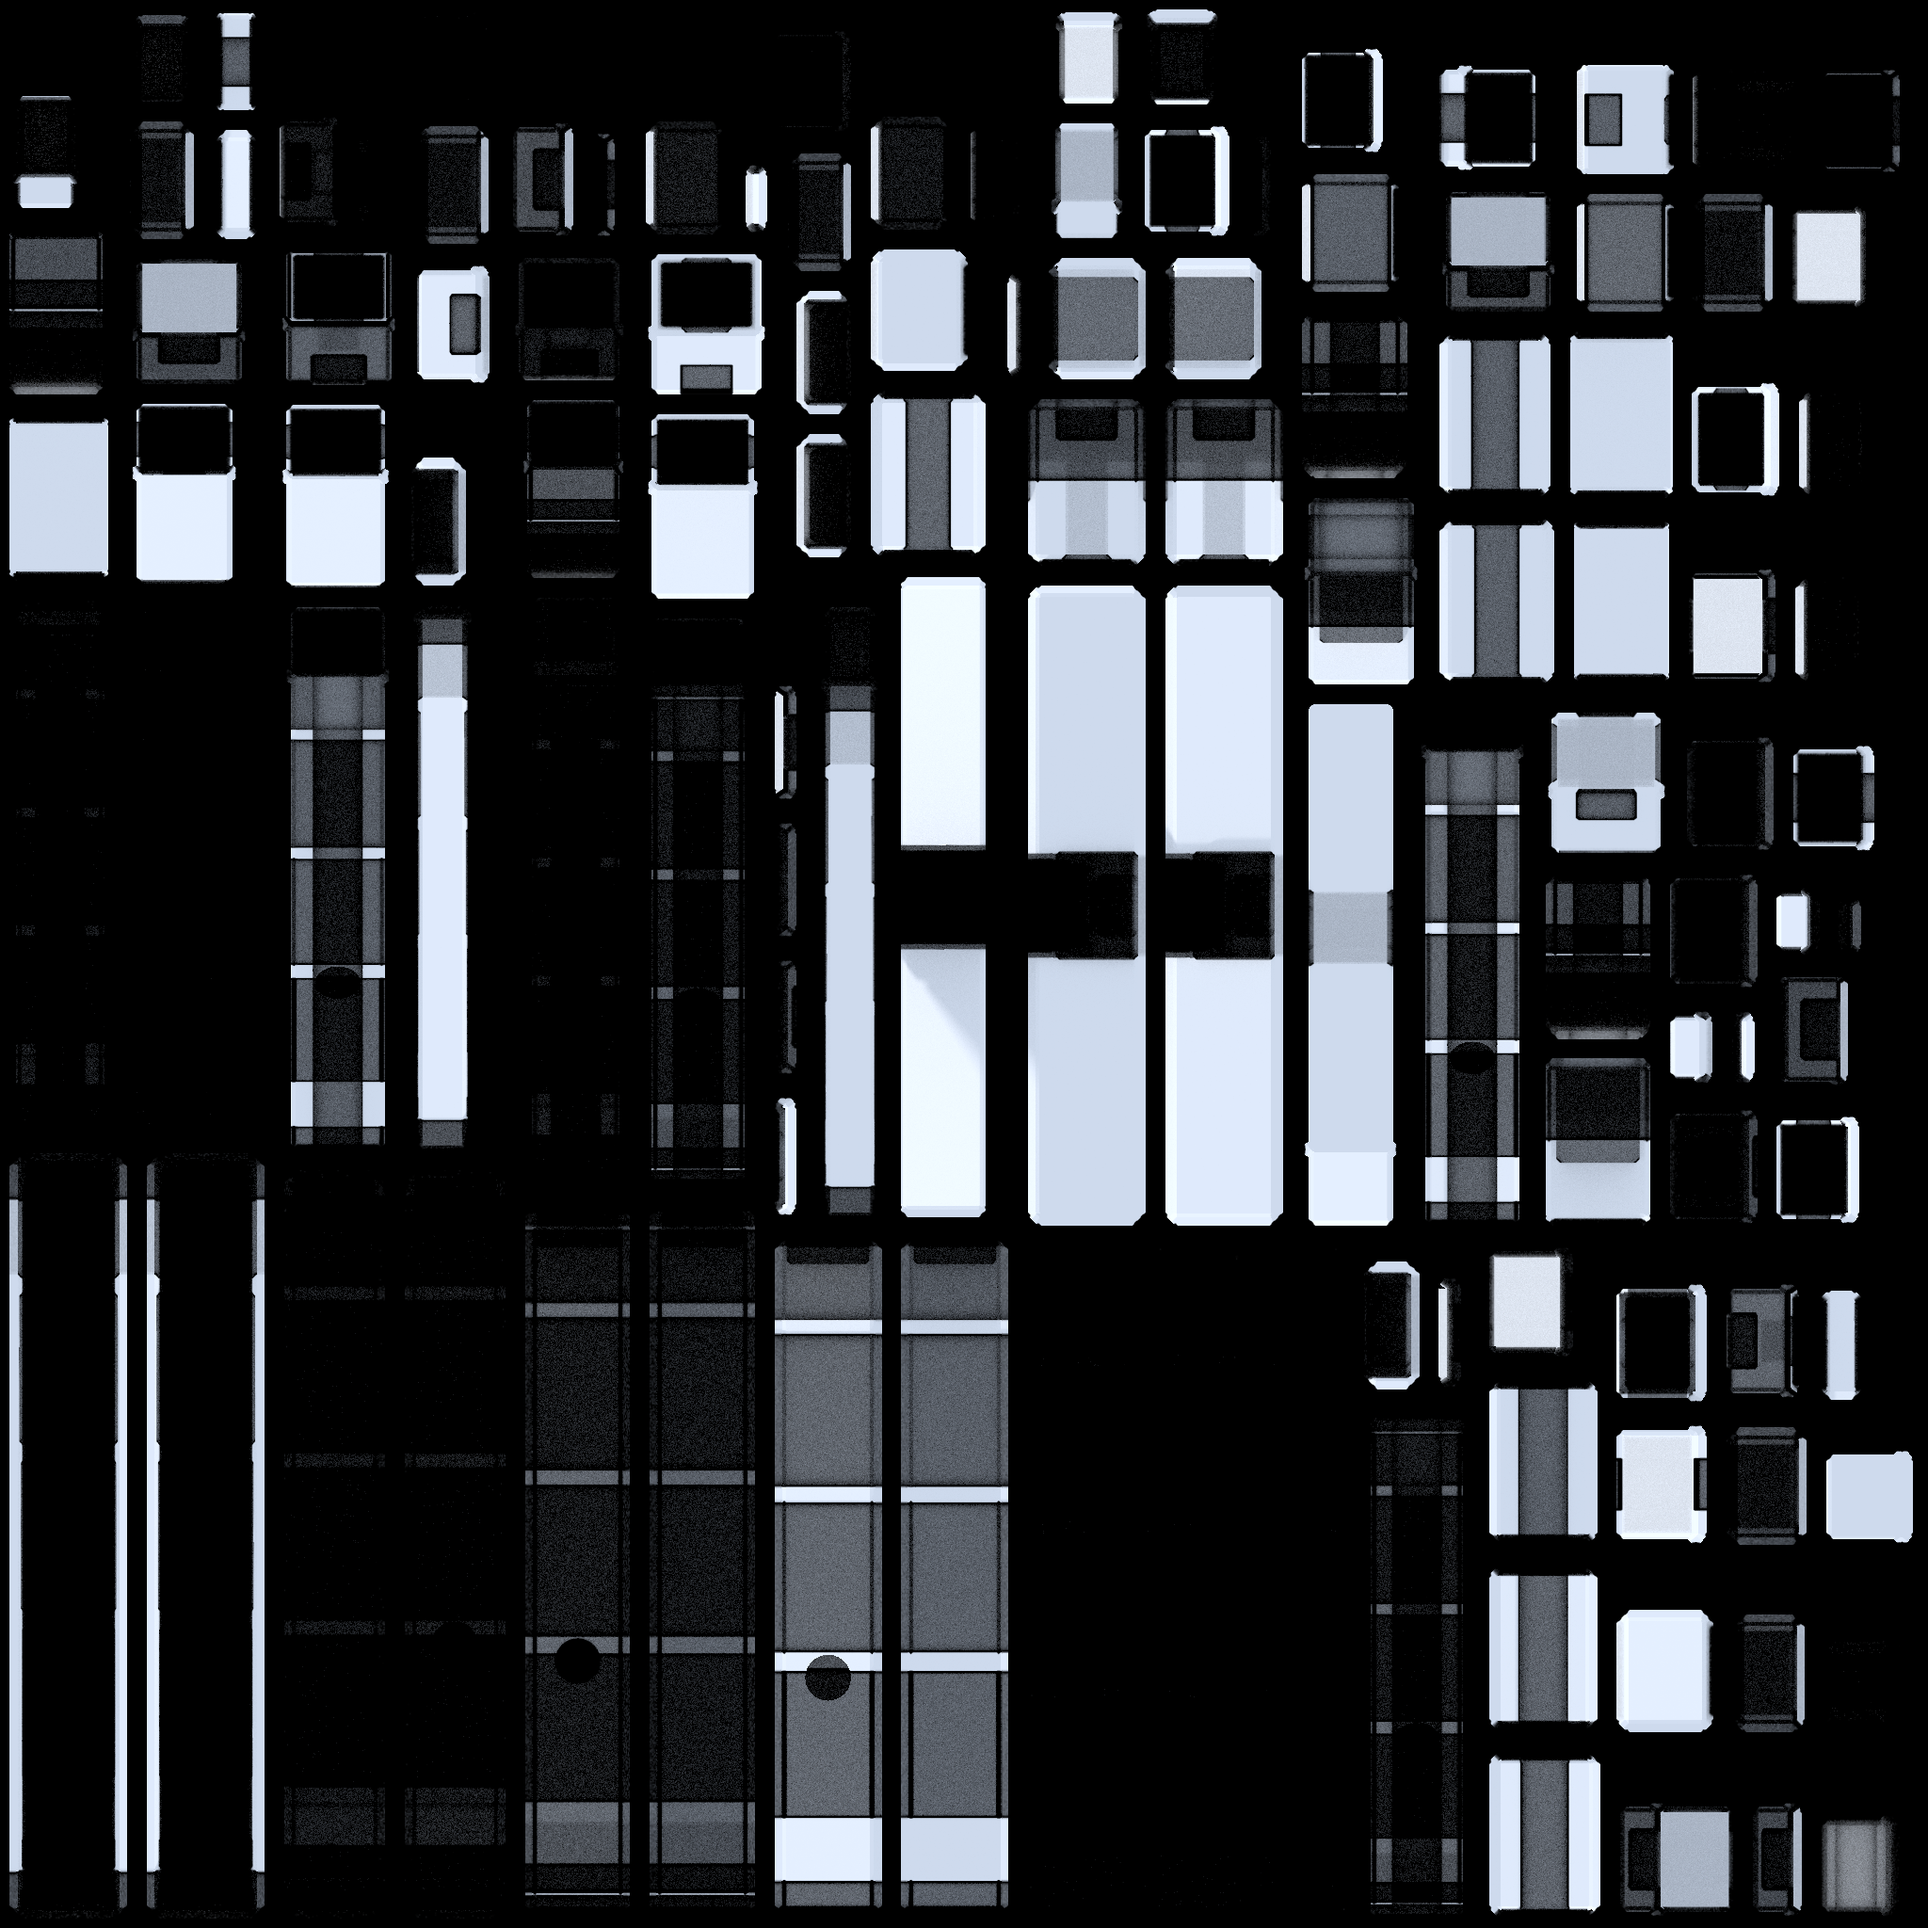
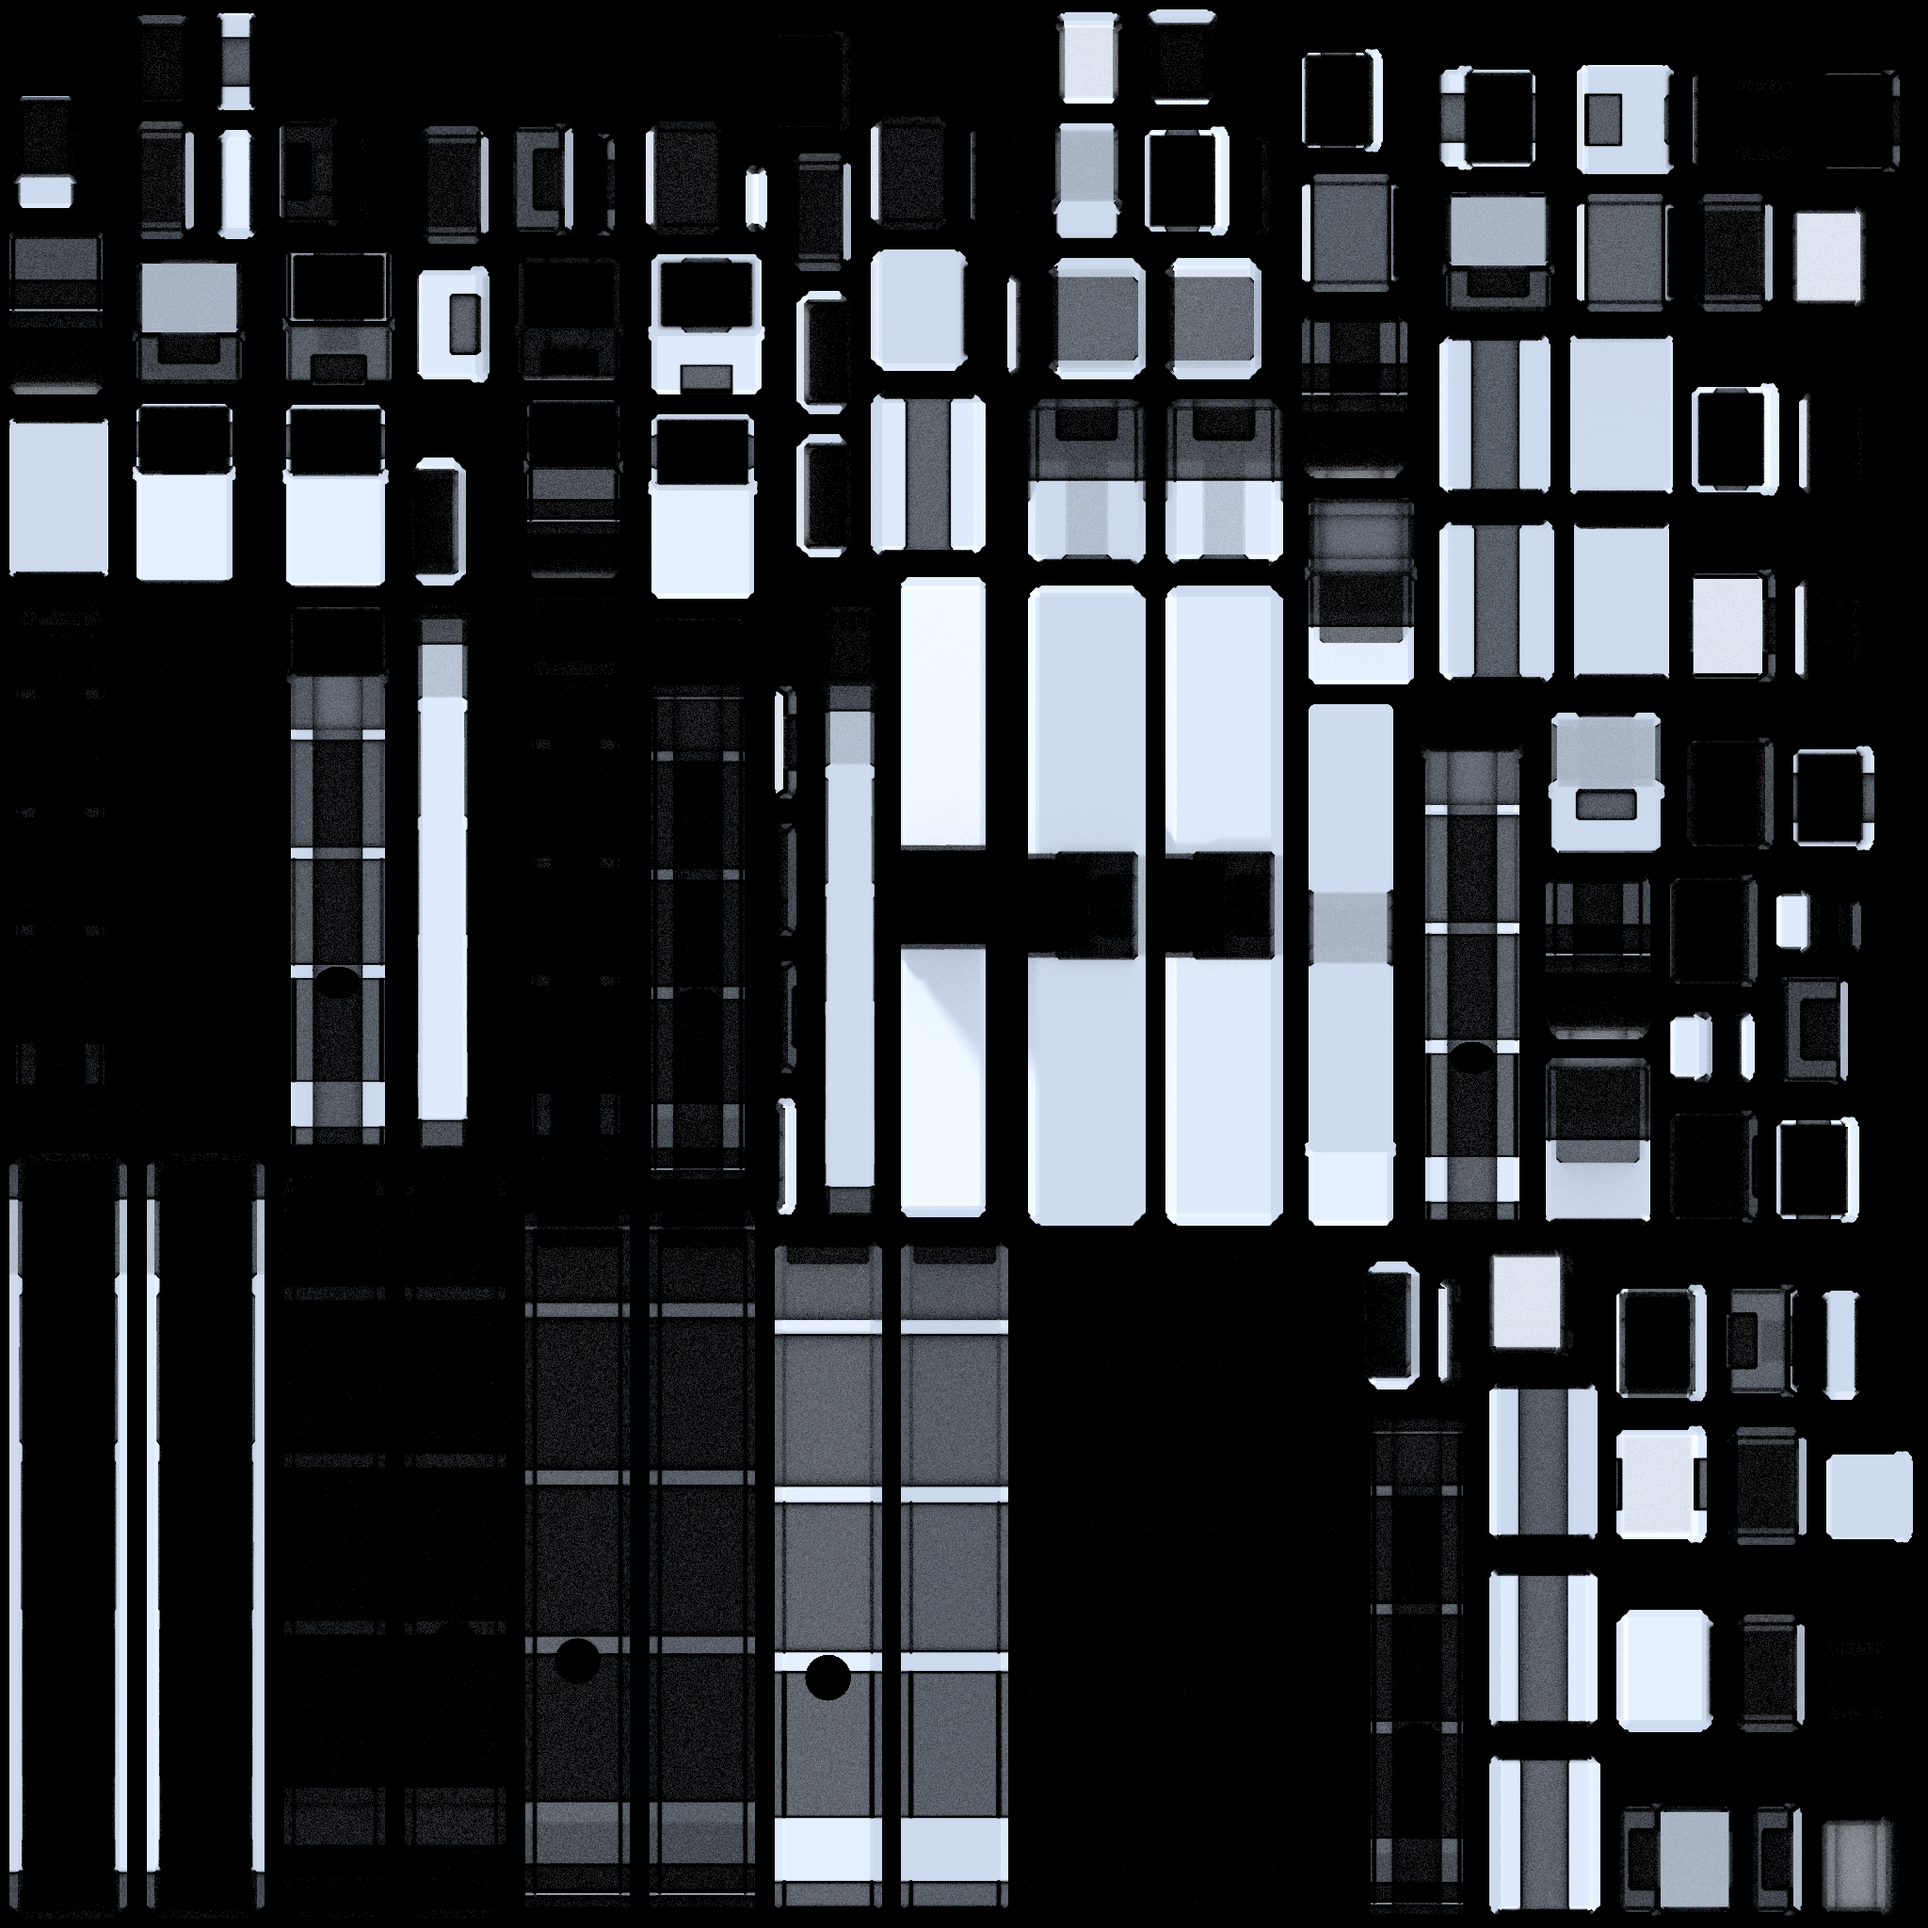
Polish: muted live plates that read through the seam, the hero's warm rim, deeper carvings
Live floor plates were hot neon pink, the brightest thing on screen. The
live face is LETHAL_LIVE darkened 30 % on the baked slate, the SEAM of a
live plate is LETHAL_SEAM (bright, pulsing on the beat), the baked top is
capped at 0.88 so the floor never blooms, and the glow threshold went
0.82 -> 0.9 with intensity 0.45 -> 0.35: 'live' reads through the rim and
the pulse, not brightness. The hazards keep the deeper magenta from
stage B, their rim carrying 'live'.

The hero's warm rim (brief 6 section 5): HERO_RIM #ffb9a0, strength 0.5,
a tight fresnel (power 4) on the side away from pr_light_dir, in the
creature's shader (the legs share it). The only warm light in the world.

The pillar carvings are cut three times deeper in the bake (panels 0.09,
joints 0.03, circles and symbols to match), grime 0.5 -> 0.7 reaching
0.8, the bake cage to match; NEAR_PILLAR #10151b -> #1b232c so the
carvings show up close. Re-baked (tools/blender/pillars.py).

diff --git a/tools/blender/pillars.py b/tools/blender/pillars.py
@@ -125,11 +125,11 @@ def v_plain(h):
     def deco(ob):
         # two recessed panels on the +x and -z faces (the lit faces), a joint every quarter
         for cz in (0.35 * h, 0.7 * h):
-            cut(ob, cutter_box("p", 0.44, 0.0, cz, 0.03, 0.26, 0.10 * h))
-            cut(ob, cutter_box("p", 0.0, 0.44, cz, 0.26, 0.03, 0.10 * h))
-            cut(ob, cutter_box("p", -0.44, 0.0, cz, 0.03, 0.26, 0.10 * h))
+            cut(ob, cutter_box("p", 0.44, 0.0, cz, 0.09, 0.26, 0.10 * h))
+            cut(ob, cutter_box("p", 0.0, 0.44, cz, 0.26, 0.09, 0.10 * h))
+            cut(ob, cutter_box("p", -0.44, 0.0, cz, 0.09, 0.26, 0.10 * h))
         for cz in (0.3 * h, 0.55 * h, 0.8 * h):
-            cut(ob, cutter_box("j", 0.0, 0.0, cz, 0.47, 0.47, 0.012))
+            cut(ob, cutter_box("j", 0.0, 0.0, cz, 0.47, 0.47, 0.03))
     return low, deco
 
 
@@ -138,9 +138,9 @@ def v_circle(h):
     def deco(ob):
         # the circle motif: a recessed disc with a ring, on the -z face and the +x face
         for (cx, cy, axis) in ((0.0, 0.45, 'Y'), (0.45, 0.0, 'X'), (-0.45, 0.0, 'X')):
-            cut(ob, cutter_cyl("c", cx, cy, 0.62 * h, 0.22, 0.06, axis))
+            cut(ob, cutter_cyl("c", cx, cy, 0.62 * h, 0.22, 0.14, axis))
             ring_in = cutter_cyl("r", cx, cy, 0.62 * h, 0.14, 0.2, axis)
-            cut(ob, cutter_cyl("r", cx, cy, 0.62 * h, 0.16, 0.05, axis))
+            cut(ob, cutter_cyl("r", cx, cy, 0.62 * h, 0.16, 0.12, axis))
             bpy.data.objects.remove(ring_in, do_unlink=True)
         for cz in (0.25 * h, 0.4 * h):
             cut(ob, cutter_box("j", 0.0, 0.0, cz, 0.47, 0.47, 0.012))
@@ -157,12 +157,12 @@ def v_stacked(h):
     def deco(ob):
         # deep joints between the blocks, a symbol on the third
         for i in range(1, n):
-            cut(ob, cutter_box("j", 0.0, 0.0, i * h / n, 0.55, 0.55, 0.014 * h))
+            cut(ob, cutter_box("j", 0.0, 0.0, i * h / n, 0.55, 0.55, 0.02 * h))
         cz = 2.5 * h / n
         for cy in (0.47, -0.47):
-            cut(ob, cutter_box("s", 0.0, cy, cz, 0.16, 0.03, 0.02))
-            cut(ob, cutter_box("s", 0.0, cy, cz + 0.06 * h, 0.16, 0.03, 0.02))
-            cut(ob, cutter_box("s", 0.0, cy, cz - 0.06 * h, 0.16, 0.03, 0.02))
+            cut(ob, cutter_box("s", 0.0, cy, cz, 0.16, 0.07, 0.03))
+            cut(ob, cutter_box("s", 0.0, cy, cz + 0.06 * h, 0.16, 0.07, 0.03))
+            cut(ob, cutter_box("s", 0.0, cy, cz - 0.06 * h, 0.16, 0.07, 0.03))
     return low, deco
 
 
@@ -174,12 +174,12 @@ def v_symbols(h):
         for k in range(4):
             cz = z + k * 0.17 * h
             if k % 2 == 0:
-                cut(ob, cutter_box("s", 0.0, 0.42, cz, 0.2, 0.03, 0.025))
-                cut(ob, cutter_box("s", 0.12, 0.42, cz + 0.05 * h, 0.05, 0.03, 0.05))
+                cut(ob, cutter_box("s", 0.0, 0.42, cz, 0.2, 0.08, 0.035))
+                cut(ob, cutter_box("s", 0.12, 0.42, cz + 0.05 * h, 0.05, 0.08, 0.06))
             else:
-                cut(ob, cutter_cyl("s", 0.0, 0.42, cz, 0.12, 0.06, 'Y'))
-        cut(ob, cutter_box("p", 0.42, 0.0, 0.5 * h, 0.03, 0.22, 0.3 * h))
-        cut(ob, cutter_box("p", -0.42, 0.0, 0.5 * h, 0.03, 0.22, 0.3 * h))
+                cut(ob, cutter_cyl("s", 0.0, 0.42, cz, 0.12, 0.16, 'Y'))
+        cut(ob, cutter_box("p", 0.42, 0.0, 0.5 * h, 0.09, 0.22, 0.3 * h))
+        cut(ob, cutter_box("p", -0.42, 0.0, 0.5 * h, 0.09, 0.22, 0.3 * h))
     return low, deco
 
 
@@ -187,8 +187,8 @@ def v_slab(h):
     low = [(0.0, 0.05 * h, 0.55, 0.3), (0.05 * h, 0.95 * h, 0.5, 0.24), (0.95 * h, h, 0.53, 0.28)]
     def deco(ob):
         for cz in (0.3 * h, 0.6 * h):
-            cut(ob, cutter_box("p", 0.0, 0.24, cz, 0.3, 0.03, 0.11 * h))
-        cut(ob, cutter_cyl("c", 0.0, 0.24, 0.82 * h, 0.16, 0.06, 'Y'))
+            cut(ob, cutter_box("p", 0.0, 0.24, cz, 0.3, 0.08, 0.11 * h))
+        cut(ob, cutter_cyl("c", 0.0, 0.24, 0.82 * h, 0.16, 0.16, 'Y'))
         for cz in (0.45 * h, 0.75 * h):
             cut(ob, cutter_box("j", 0.0, 0.0, cz, 0.6, 0.6, 0.012))
     return low, deco
@@ -199,9 +199,9 @@ def v_capped(h):
     def deco(ob):
         for cz in (0.3 * h, 0.5 * h, 0.7 * h):
             cut(ob, cutter_box("j", 0.0, 0.0, cz, 0.45, 0.45, 0.01))
-        cut(ob, cutter_box("p", 0.4, 0.0, 0.48 * h, 0.03, 0.2, 0.28 * h))
-        cut(ob, cutter_box("p", -0.4, 0.0, 0.48 * h, 0.03, 0.2, 0.28 * h))
-        cut(ob, cutter_box("p", 0.0, 0.4, 0.48 * h, 0.2, 0.03, 0.28 * h))
+        cut(ob, cutter_box("p", 0.4, 0.0, 0.48 * h, 0.09, 0.2, 0.28 * h))
+        cut(ob, cutter_box("p", -0.4, 0.0, 0.48 * h, 0.09, 0.2, 0.28 * h))
+        cut(ob, cutter_box("p", 0.0, 0.4, 0.48 * h, 0.2, 0.09, 0.28 * h))
     return low, deco
 
 
@@ -244,11 +244,11 @@ def stone_material():
     links.new(geo.outputs["Pointiness"], wearramp.inputs["Fac"])
     mixw = nodes.new("ShaderNodeMix"); mixw.data_type = 'RGBA'; mixw.blend_type = 'ADD'; mixw.inputs["Factor"].default_value = 0.22
     links.new(mixg.outputs[2], mixw.inputs[6]); links.new(wearramp.outputs["Color"], mixw.inputs[7])
-    ao = nodes.new("ShaderNodeAmbientOcclusion"); ao.inputs["Distance"].default_value = 0.5; ao.samples = 8
+    ao = nodes.new("ShaderNodeAmbientOcclusion"); ao.inputs["Distance"].default_value = 0.8; ao.samples = 8
     grime = nodes.new("ShaderNodeValToRGB"); grime.color_ramp.elements[0].position = 0.15; grime.color_ramp.elements[1].position = 0.75
     grime.color_ramp.elements[0].color = (0.35, 0.35, 0.4, 1)
     links.new(ao.outputs["AO"], grime.inputs["Fac"])
-    mixa = nodes.new("ShaderNodeMix"); mixa.data_type = 'RGBA'; mixa.blend_type = 'MULTIPLY'; mixa.inputs["Factor"].default_value = 0.5
+    mixa = nodes.new("ShaderNodeMix"); mixa.data_type = 'RGBA'; mixa.blend_type = 'MULTIPLY'; mixa.inputs["Factor"].default_value = 0.7
     links.new(mixw.outputs[2], mixa.inputs[6]); links.new(grime.outputs["Color"], mixa.inputs[7])
     links.new(mixa.outputs[2], bsdf.inputs["Base Color"])
     return m
@@ -293,8 +293,8 @@ bpy.ops.uv.pack_islands(margin=0.012)
 bpy.ops.object.mode_set(mode='OBJECT')
 
 scene.render.bake.use_selected_to_active = True
-scene.render.bake.cage_extrusion = 0.12
-scene.render.bake.max_ray_distance = 0.3
+scene.render.bake.cage_extrusion = 0.2
+scene.render.bake.max_ray_distance = 0.45
 scene.render.bake.use_clear = False
 scene.render.bake.margin = 6
 first = True
